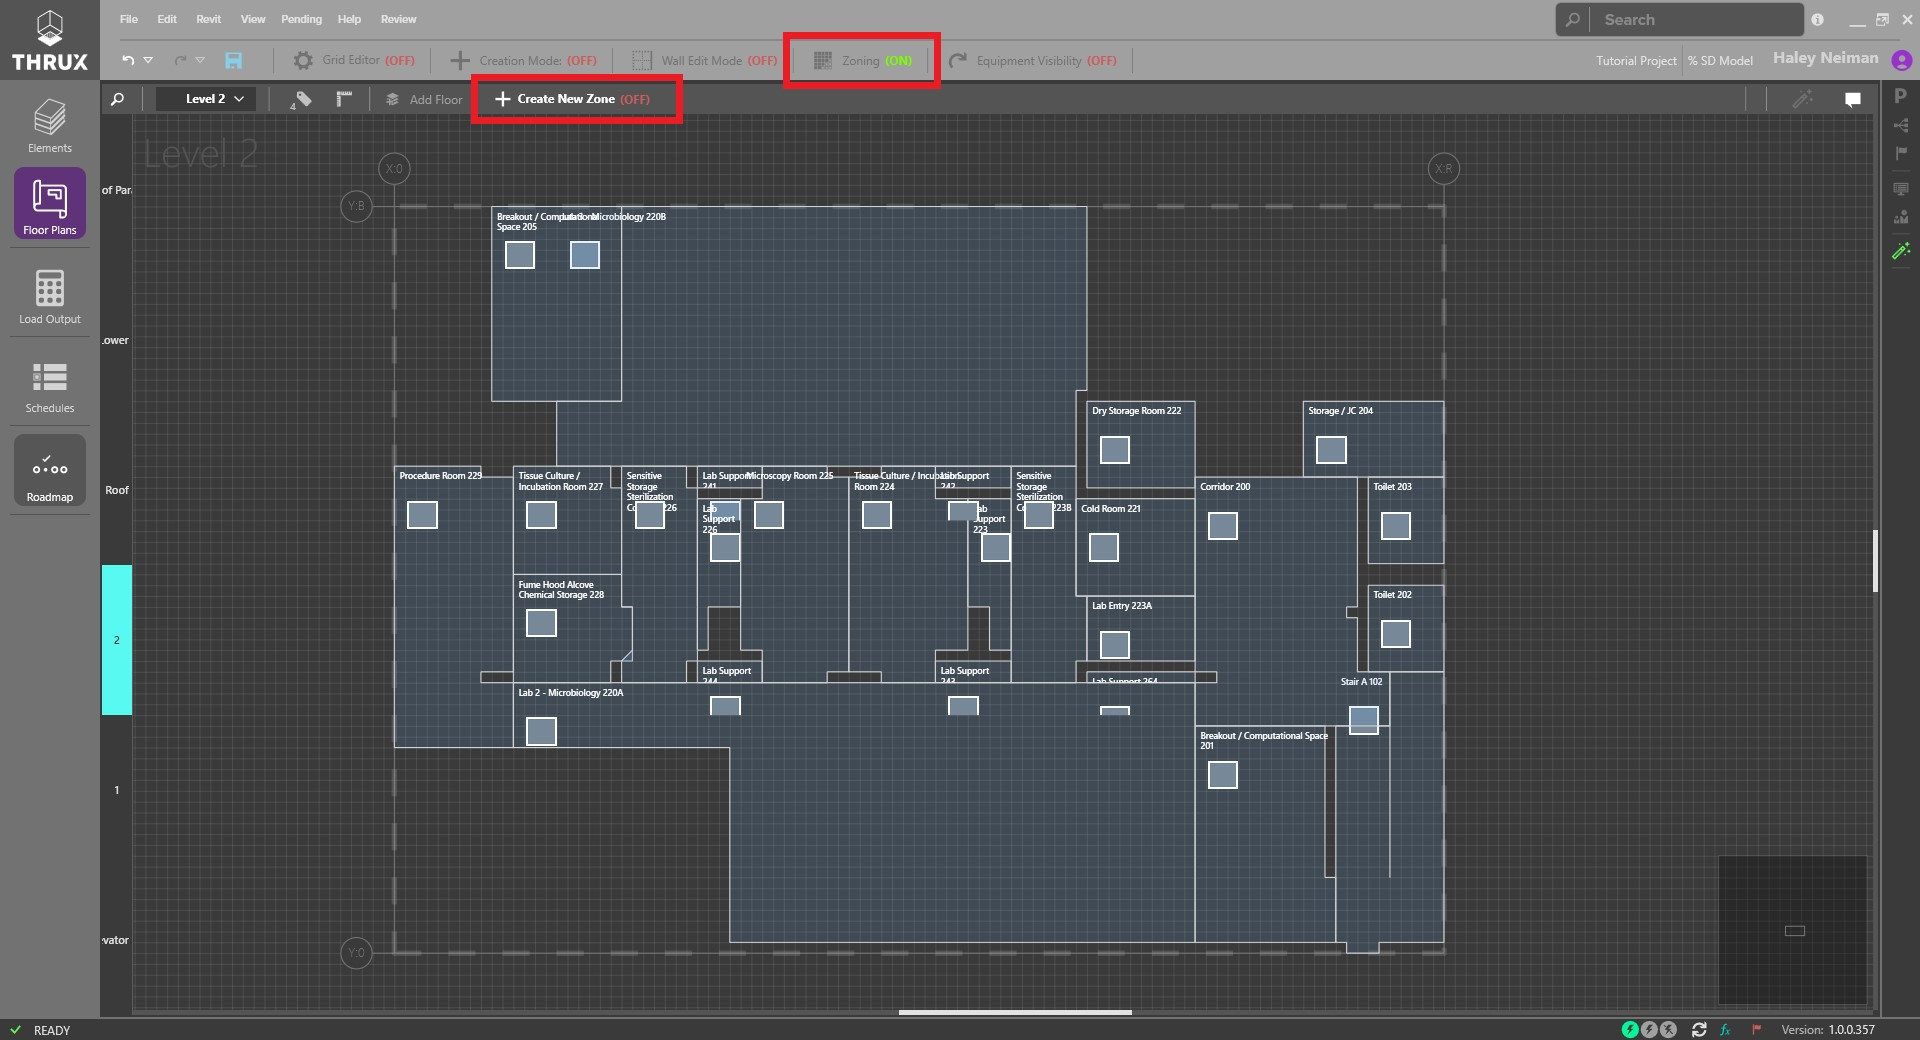
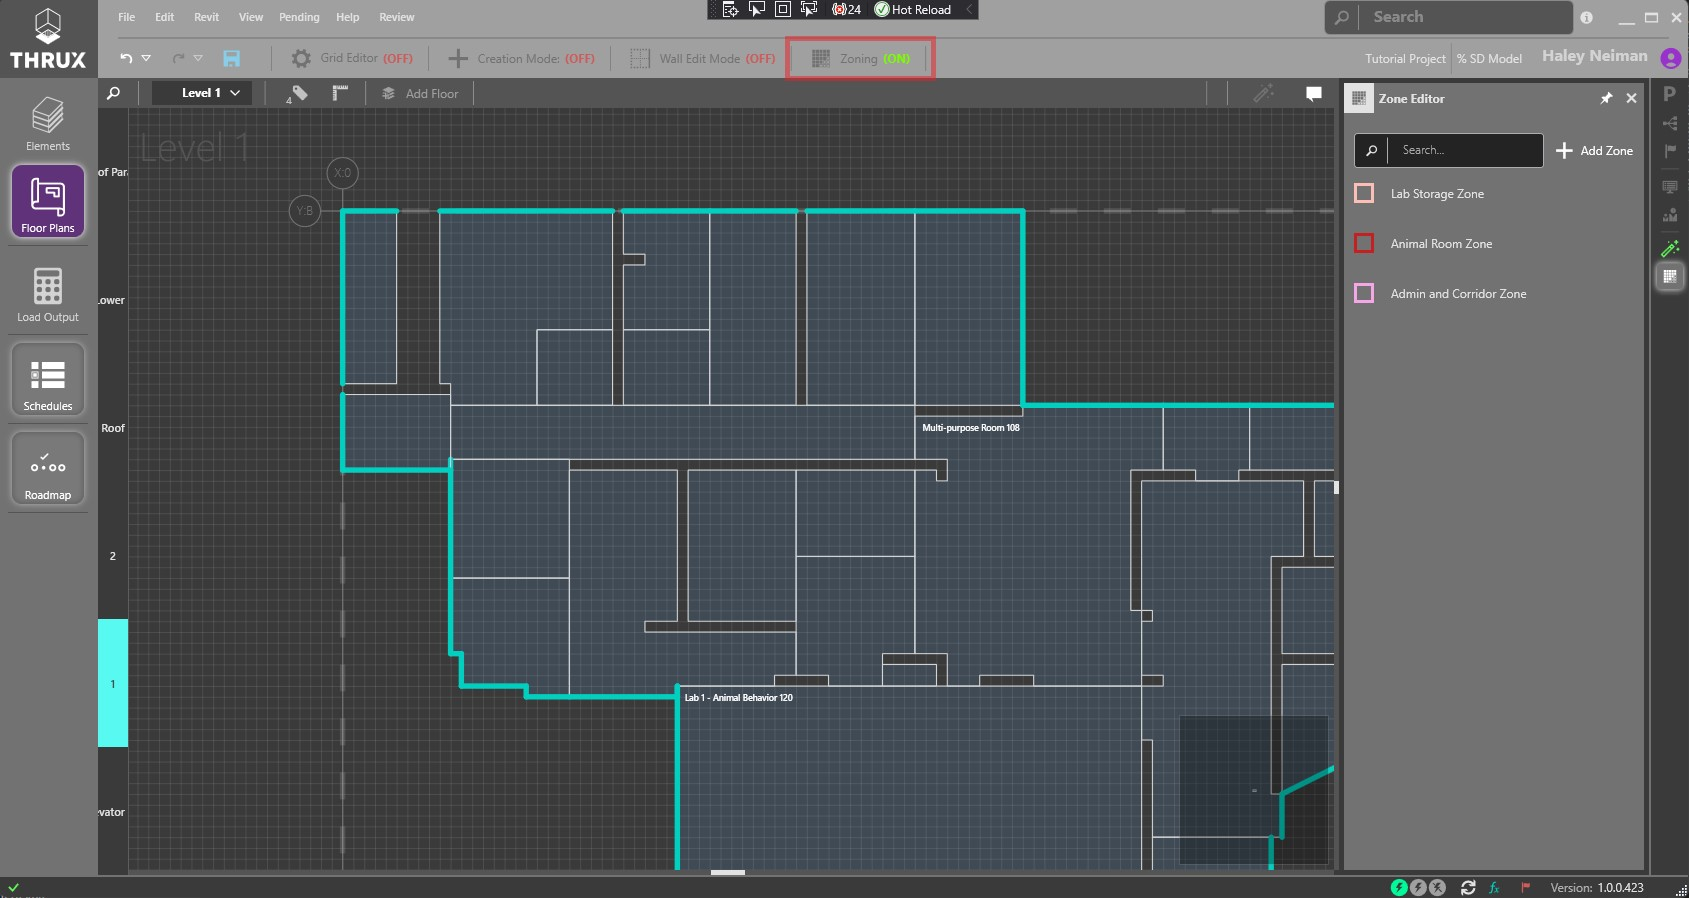
update to zone edit mode

diff --git a/docs/userguide/buildingmechanicalmodel/floorplans/index-mech_floor_plans.rst b/docs/userguide/buildingmechanicalmodel/floorplans/index-mech_floor_plans.rst
@@ -57,10 +57,17 @@ Toggle on Zone Edit Mode at the top of the workspace to create, modify and delet
 
     Create/Modify/Delete zones
 
-Select "Create New Zone", then toggle on the checkbox for each space that should be included in the new zone. Enter the zone name and press "Accept" to create the zone. A visual region will appear, bounded by the outside boundary of the included spaces. 
+Select zones to edit from existing zones in the Zone Editor or create a new zone by selecting "Add Zone". Selecting a zone in the Zone Editor will enable shading, visually indicating which spaces are contained in the zone. Add or remove spaces from the selected zone by selecting or deselecting them in the visual floor plan. 
 
-To edit a zone that has already been created, select it. Checkboxes will appear on each of the spaces that are included in the zone. Uncheck spaces to remove them, and check on new spaces to add them to the zone. Press "Accept" to complete the change. 
+When a zone has been selected, additional properties will appear in the Properties browser which allow you to edit the name of the zone and the assigned zone type.
 
+.. figure:: images/ZoneEditZoomedIn.JPG
+    :align: center
+    :alt: Edit Zone Name and Template
+
+    Shading Indicates How Spaces are Assigned to Zones
+
+Hint: using the new Zone Editor, zones can now span multiple floors. 
 
 Floor Slabs and Roofs
 ---------------------
